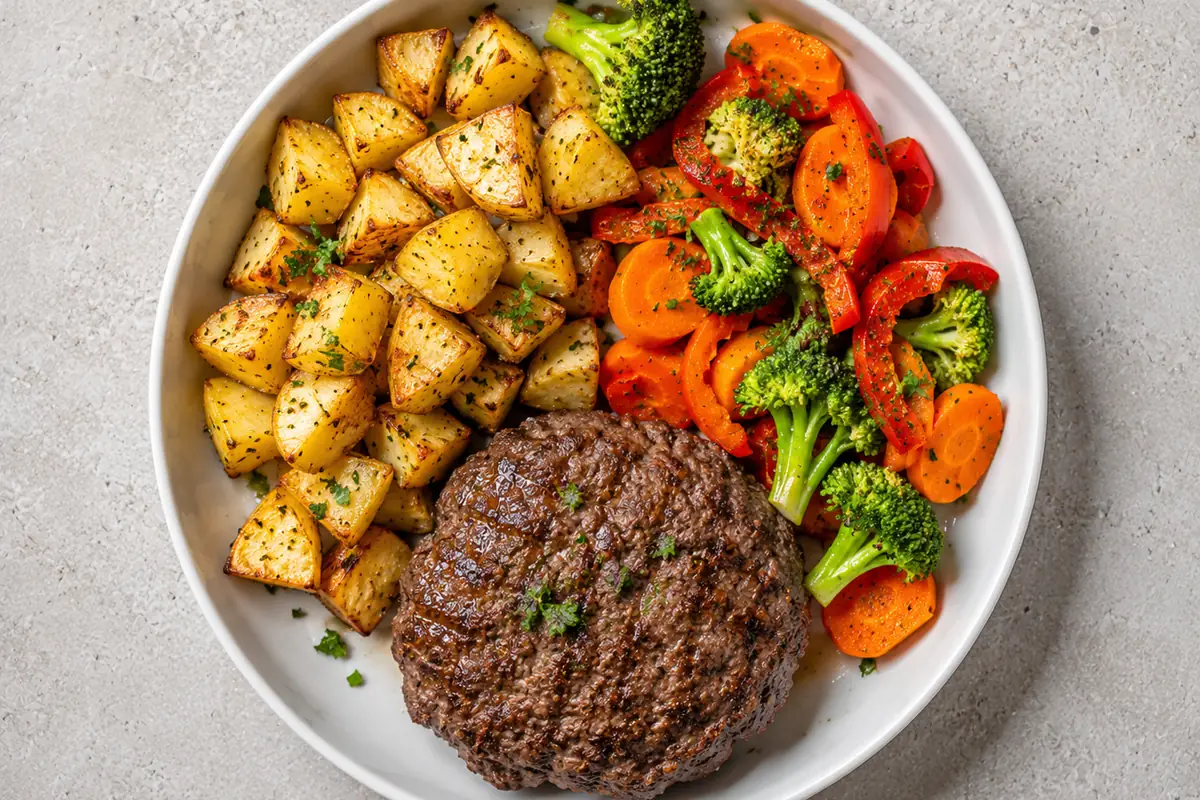
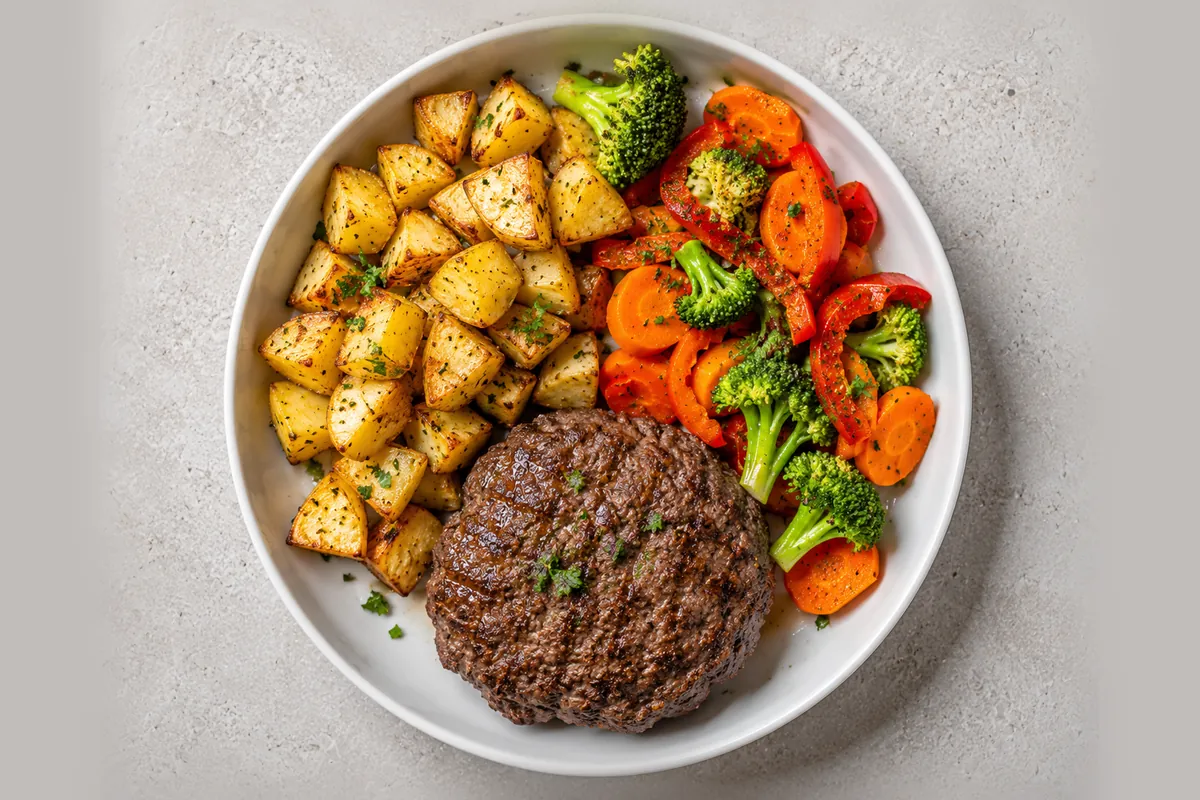
outil photos : extension du fond au lieu du recadrage, l'assiette n'est plus amputee quand la source n'est pas au ratio 3:2; recettes 5 et 6 retraitees

diff --git a/tools/photo-recette.py b/tools/photo-recette.py
@@ -20,22 +20,62 @@ def nom_fichier(nom):
     return s + '.webp'
 
 
+def moyenne_coins(im, taille=40):
+    """Couleur dominante du decor, prise aux quatre coins."""
+    l, h = im.size
+    zones = [
+        im.crop((0, 0, taille, taille)),
+        im.crop((l - taille, 0, l, taille)),
+        im.crop((0, h - taille, taille, h)),
+        im.crop((l - taille, h - taille, l, h)),
+    ]
+    pixels = [p for z in zones for p in list(z.convert("RGB").getdata())]
+    n = len(pixels)
+    return tuple(sum(c[i] for c in pixels) // n for i in range(3))
+
+
+def fondre_bords(cadre, image, fond, largeur=24):
+    """Adoucit la jointure entre l'image et le fond ajoute."""
+    from PIL import ImageFilter
+    flou = cadre.filter(ImageFilter.GaussianBlur(radius=18))
+    masque = Image.new('L', cadre.size, 0)
+    x = (cadre.width - image.width) // 2
+    y = (cadre.height - image.height) // 2
+    # Zone a conserver nette : l'image d'origine, moins une bordure
+    from PIL import ImageDraw
+    d = ImageDraw.Draw(masque)
+    d.rectangle([x + largeur, y + largeur,
+                 x + image.width - largeur, y + image.height - largeur], fill=255)
+    masque = masque.filter(ImageFilter.GaussianBlur(radius=largeur))
+    return Image.composite(cadre, flou, masque)
+
+
 def preparer(source, nom_recette):
     im = Image.open(source).convert('RGB')
 
-    # Recadrage centre au ratio 3:2 : mieux vaut couper que deformer.
+    # L'assiette doit rester entiere : on n'ampute jamais l'image.
+    # Si le ratio ne correspond pas, on etend le fond au lieu de couper.
+    # Le decor etant un beton gris uni, l'ajout est invisible.
     l, h = im.size
     ratio_cible = CIBLE[0] / CIBLE[1]
-    if l / h > ratio_cible:
-        nouvelle_l = int(h * ratio_cible)
-        gauche = (l - nouvelle_l) // 2
-        im = im.crop((gauche, 0, gauche + nouvelle_l, h))
-    else:
-        nouvelle_h = int(l / ratio_cible)
-        haut = (h - nouvelle_h) // 2
-        im = im.crop((0, haut, l, haut + nouvelle_h))
+    ratio_source = l / h
 
-    im = im.resize(CIBLE, Image.LANCZOS)
+    if abs(ratio_source - ratio_cible) < 0.02:
+        im = im.resize(CIBLE, Image.LANCZOS)
+    else:
+        # Reduire pour que l'image tienne entierement dans le cadre
+        echelle = min(CIBLE[0] / l, CIBLE[1] / h)
+        nouvelle = im.resize((int(l * echelle), int(h * echelle)), Image.LANCZOS)
+
+        # Couleur de fond : moyenne des quatre coins, donc le decor
+        fond = moyenne_coins(nouvelle)
+        cadre = Image.new('RGB', CIBLE, fond)
+        cadre.paste(nouvelle, ((CIBLE[0] - nouvelle.width) // 2,
+                               (CIBLE[1] - nouvelle.height) // 2))
+
+        # Fondu des bords pour effacer la jointure
+        cadre = fondre_bords(cadre, nouvelle, fond)
+        im = cadre
 
     # Qualite descendante jusqu'a passer sous la limite de poids.
     cible = 'img/recettes/' + nom_fichier(nom_recette)

diff --git a/img/recettes/LISEZMOI.md b/img/recettes/LISEZMOI.md
@@ -30,3 +30,14 @@ Ne pas utiliser d'images trouvées via un moteur de recherche.
 Sources sûres : photos personnelles, Unsplash, Pexels, ou une banque
 payante (Adobe Stock). BELFIT étant une application payante, une image
 sans licence expose à une réclamation.
+
+## Ratio des images sources
+
+Générer les images en **1536 × 1024** (ratio 3:2). C'est le format
+paysage natif de ChatGPT et il correspond exactement à la bannière :
+aucune retouche, aucune perte.
+
+Si une image arrive dans un autre ratio (carré, 4:3…), l'outil
+`tools/photo-recette.py` **étend le fond** au lieu de couper : l'assiette
+reste entière. Le décor étant uni, l'ajout ne se voit pas. Mais une
+source déjà au bon ratio donne toujours un meilleur résultat.